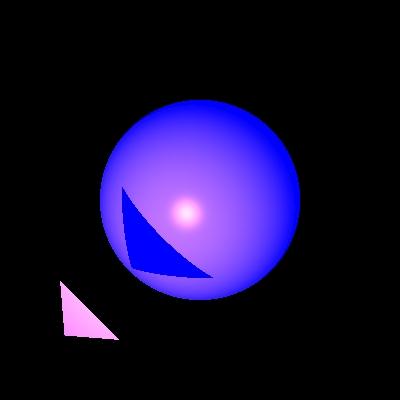
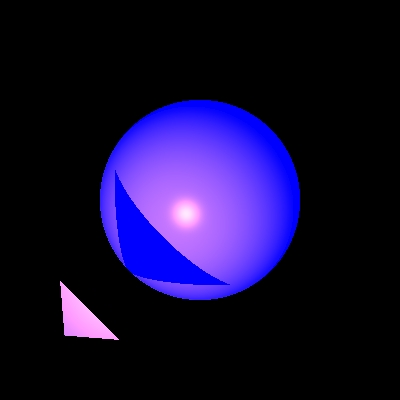
finish shadow but not document 22/05/2020 14:30

diff --git a/UnitTests/UnitTests/ShadowTests.java b/UnitTests/UnitTests/ShadowTests.java
@@ -57,10 +57,10 @@ public class ShadowTests {
         scene.addGeometries(new Sphere(new Color(java.awt.Color.BLUE), new Material(0.5, 0.5, 30), //
                         60, new Point3D(0, 0, 200)), //
                 new Triangle(new Color(java.awt.Color.BLUE), new Material(0.5, 0.5, 30), //
-                        new Point3D(-70, 40, 0), new Point3D(-40, 70, 0), new Point3D(-68, 68, 4)));
+                        new Point3D(-62, 32, 0), new Point3D(-32, 62, 0), new Point3D(-60, 60, 4)));
 
         scene.addLights(new SpotLight(new Color(400, 240, 0), //
-                new Point3D(-55, 55, 6), new Vector(1, -1, 3), 1, 1E-5, 1.5E-7));
+                new Point3D(-100, 100, -200), new Vector(1, -1, 3), 1, 1E-5, 1.5E-7));
 
         ImageWriter imageWriter = new ImageWriter("sphereTriangleMove1", 200, 200, 400, 400);
         Render render = new Render(imageWriter, scene);
@@ -83,7 +83,7 @@ public class ShadowTests {
         scene.addGeometries(new Sphere(new Color(java.awt.Color.BLUE), new Material(0.5, 0.5, 30), //
                         60, new Point3D(0, 0, 200)), //
                 new Triangle(new Color(java.awt.Color.BLUE), new Material(0.5, 0.5, 30), //
-                        new Point3D(-70, 40, 0), new Point3D(-40, 70, 0), new Point3D(-68, 68, 4)));
+                        new Point3D(-50, 20, 0), new Point3D(-20, 50, 0), new Point3D(-48, 48, 4)));
 
         scene.addLights(new SpotLight(new Color(400, 240, 0), //
                 new Point3D(-100, 100, -200), new Vector(1, -1, 3), 1, 1E-5, 1.5E-7));
@@ -112,7 +112,7 @@ public class ShadowTests {
                         new Point3D(-70, 40, 0), new Point3D(-40, 70, 0), new Point3D(-68, 68, 4)));
 
         scene.addLights(new SpotLight(new Color(400, 240, 0), //
-                new Point3D(-100, 100, -200), new Vector(1, -1, 3), 1, 1E-5, 1.5E-7));
+                new Point3D(-86, 86, -136), new Vector(1, -1, 3), 1, 1E-5, 1.5E-7));
 
         ImageWriter imageWriter = new ImageWriter("sphereTriangleSpot1", 200, 200, 400, 400);
         Render render = new Render(imageWriter, scene);
@@ -138,7 +138,7 @@ public class ShadowTests {
                         new Point3D(-70, 40, 0), new Point3D(-40, 70, 0), new Point3D(-68, 68, 4)));
 
         scene.addLights(new SpotLight(new Color(400, 240, 0), //
-                new Point3D(-100, 100, -200), new Vector(1, -1, 3), 1, 1E-5, 1.5E-7));
+                new Point3D(-75, 75, -60), new Vector(1, -1, 3), 1, 1E-5, 1.5E-7));
 
         ImageWriter imageWriter = new ImageWriter("sphereTriangleSpot2", 200, 200, 400, 400);
         Render render = new Render(imageWriter, scene);
